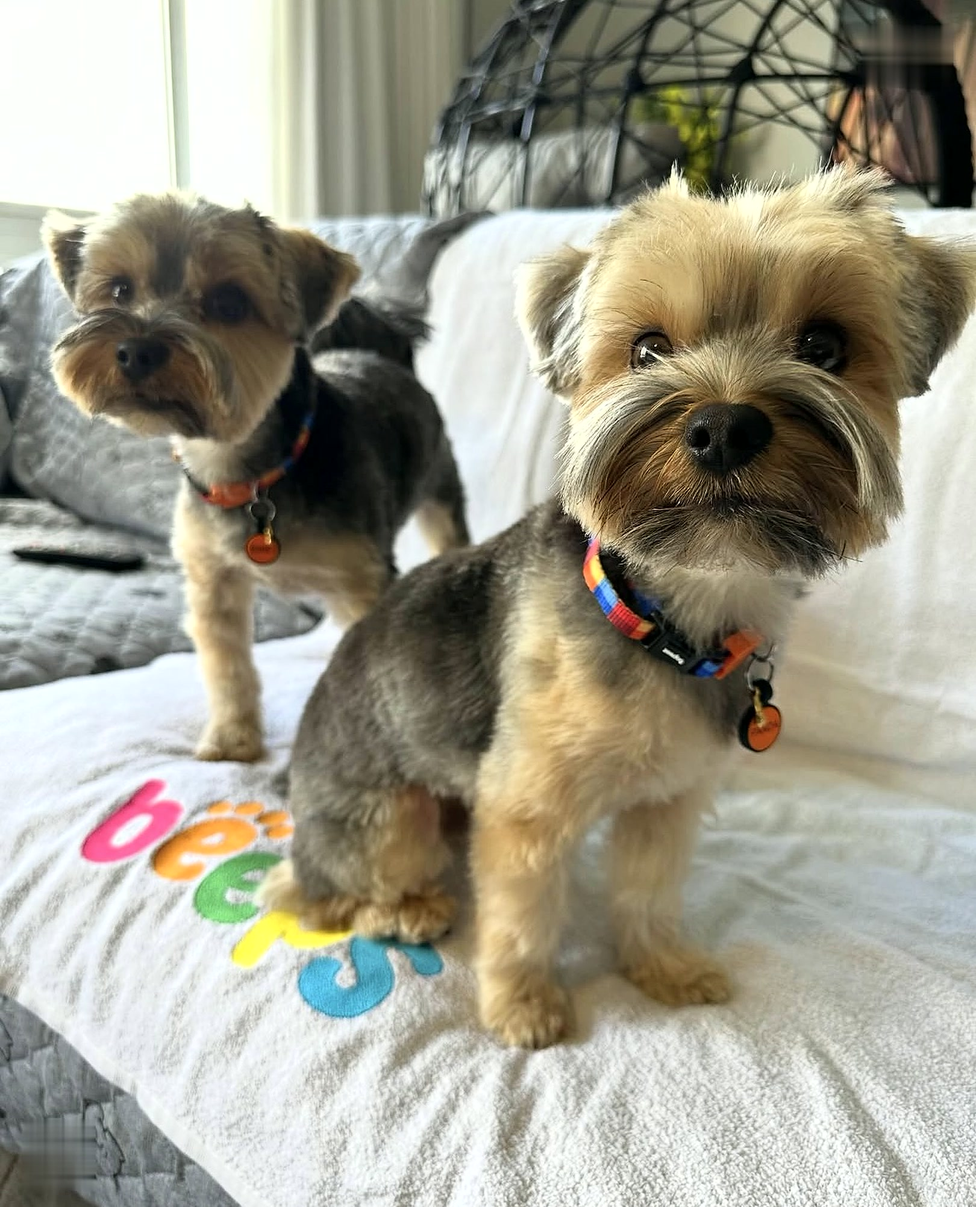
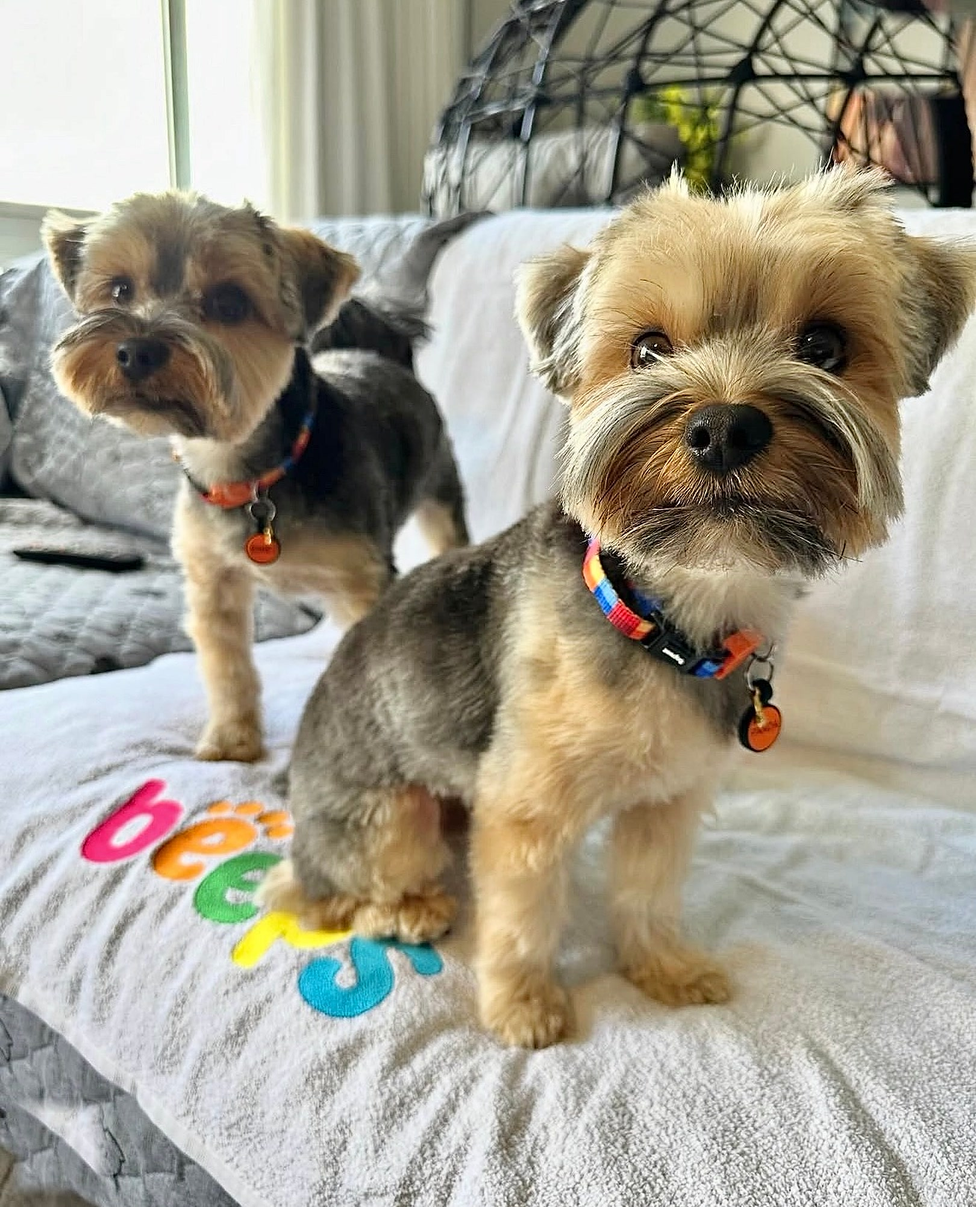
Pets: Beeps com fotos clareadas, mesmo tamanho dos outros cards e mais espaço entre carrosséis

diff --git a/index.html b/index.html
@@ -211,17 +211,18 @@ p{margin:0 0 1em}
 @media (max-width:700px){.galeria-grade{grid-template-columns:repeat(2,1fr)}}
 /* ================= DINO & PANDA EM CENA ================= */
 .pets-sub{max-width:52ch;margin:-12px 0 clamp(32px,4vw,48px);color:var(--cinza)}
-.pets-grade{display:grid;grid-template-columns:repeat(3,1fr);gap:clamp(36px,4vw,56px) clamp(24px,3vw,44px);padding:14px 0 0 14px}
+.pets-grade{display:grid;grid-template-columns:repeat(3,1fr);gap:clamp(48px,6vw,72px) clamp(64px,8vw,120px);padding:14px clamp(20px,3vw,40px) 0 clamp(28px,3vw,48px)}
 .pet-card{position:relative;display:block;width:100%;padding:0;margin:0;border:0;background:none;cursor:zoom-in;aspect-ratio:4/5}
 .pet-frente,.pet-atras{position:absolute;inset:0;border:1px solid var(--tinta);background:var(--papel-2);overflow:hidden;transition:transform .45s cubic-bezier(.2,.7,.2,1)}
 /* a foto entra inteira (sem cortar); se não for 4:5, sobra uma margem suave da cor do fundo */
-.pet-frente img,.pet-atras img{width:100%;height:100%;object-fit:contain}
+.pet-frente,.pet-atras{display:flex;align-items:center}
+.pet-frente img,.pet-atras img{width:100%;height:auto;aspect-ratio:1/1;object-fit:contain}
 .pet-frente{z-index:2}
 .pet-atras-1{transform:rotate(-4deg)}
 .pet-atras-2{transform:rotate(3.5deg)}
 @media (hover:hover){
-  .pilha:hover .pet-atras-1{transform:rotate(-11deg) translate(-16%,2%)}
-  .pilha:hover .pet-atras-2{transform:rotate(10deg) translate(16%,2%)}
+  .pilha:hover .pet-atras-1{transform:rotate(-9deg) translate(-11%,2%)}
+  .pilha:hover .pet-atras-2{transform:rotate(8deg) translate(11%,2%)}
   .pilha:hover .pet-frente{transform:translateY(-3%)}
   .pet-card:not(.pilha):hover .pet-frente img{transform:scale(1.03)}
   .pet-frente img{transition:transform .4s}
@@ -702,9 +703,9 @@ const GALERIA = [
 //  Com mais de uma foto, o card vira uma pilha que abre em leque ao passar o mouse e, ao clicar, um carrossel.
 const PETS = [
   { marca: 'Beeps', logo: 'logos/beeps-selo.png', capa: 0, fotos: [
-    { foto: 'pets/beeps-02.jpg?v=2', descricao: 'Dino e Panda, dois yorkshires, posando na toalha bordada da Beeps', descricao_en: 'Dino and Panda, two Yorkshire terriers, posing on the embroidered Beeps towel' },
-    { foto: 'pets/beeps-01.jpg?v=2', descricao: 'Dino e Panda olhando para a câmera, com os produtos Beeps ao lado', descricao_en: 'Dino and Panda looking at the camera, with Beeps products beside them' },
-    { foto: 'pets/beeps-03.jpg?v=2', descricao: 'Kit Beeps com shampoos, condicionador e sprays numa caixa com a toalha da marca', descricao_en: 'Beeps kit with shampoos, conditioner and sprays in a box with the brand’s towel' }
+    { foto: 'pets/beeps-02.jpg?v=3', descricao: 'Dino e Panda, dois yorkshires, posando na toalha bordada da Beeps', descricao_en: 'Dino and Panda, two Yorkshire terriers, posing on the embroidered Beeps towel' },
+    { foto: 'pets/beeps-01.jpg?v=3', descricao: 'Dino e Panda olhando para a câmera, com os produtos Beeps ao lado', descricao_en: 'Dino and Panda looking at the camera, with Beeps products beside them' },
+    { foto: 'pets/beeps-03.jpg?v=3', descricao: 'Kit Beeps com shampoos, condicionador e sprays numa caixa com a toalha da marca', descricao_en: 'Beeps kit with shampoos, conditioner and sprays in a box with the brand’s towel' }
   ] },
   { marca: 'Simba Lovers Store', logo: 'logos/simba-lovers-selo.png', capa: 0, fotos: [
     { foto: 'pets/simba-01.jpg', descricao: 'Dino e Panda sorrindo na grama com camisetas azuis de estrelinhas', descricao_en: 'Dino and Panda smiling on the grass in matching blue star shirts' },
